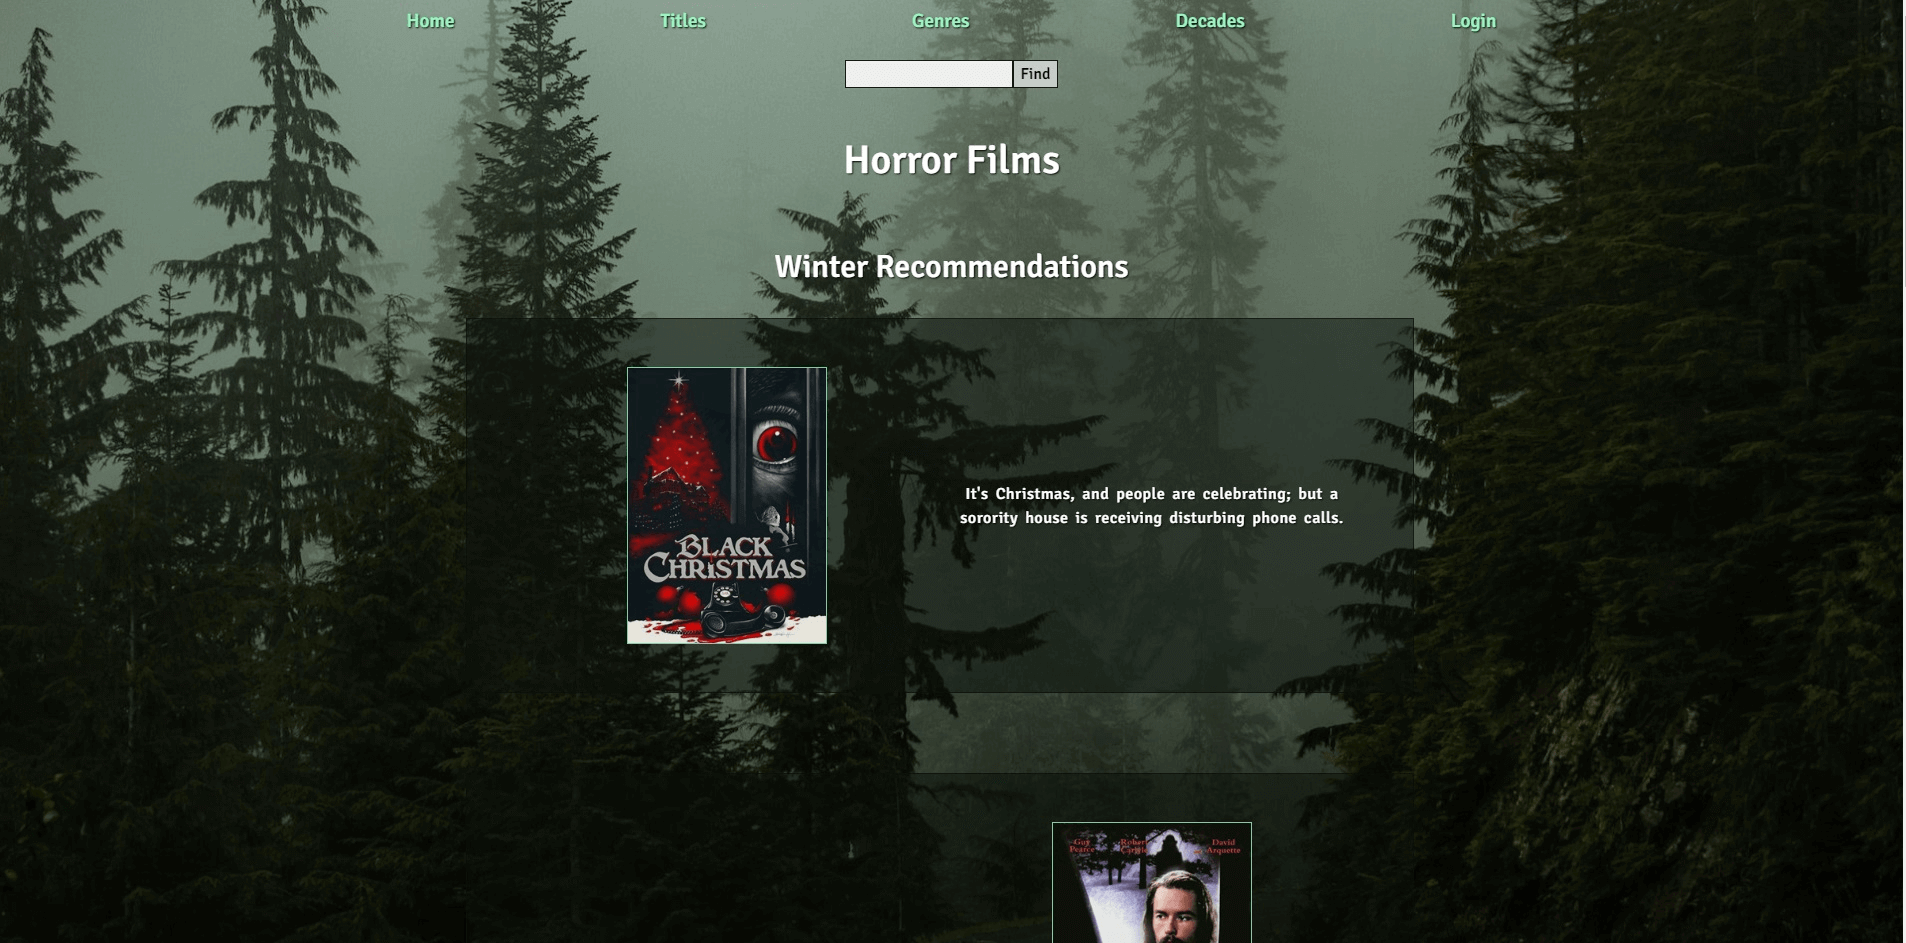
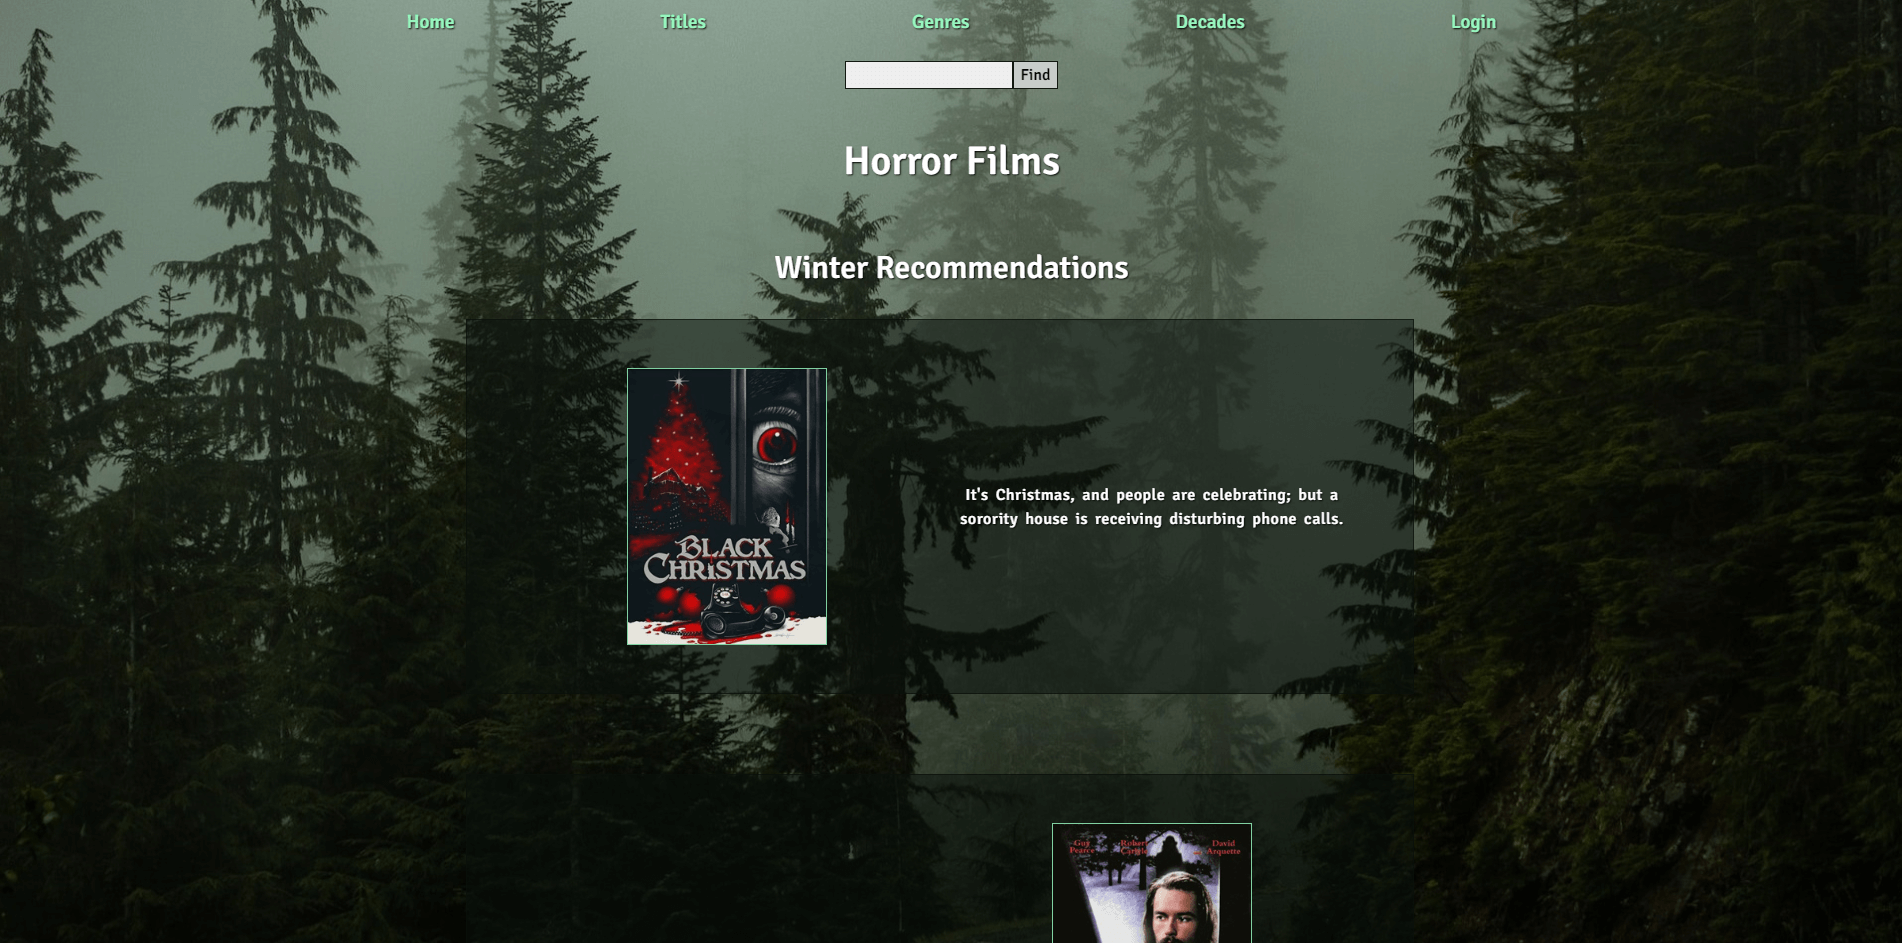
border

diff --git a/src/components/Project.js b/src/components/Project.js
@@ -49,9 +49,15 @@ export default function Project() {
 
             function pic_counter() {
                 if (project.id !== 6 && project.id !== 10 && project.id !== 12 && project.id !== 13) {
-                    return (
-                        <img className='project_img project_img_small pt-1' src={'../../img/p' + (project.id) + '_4.png'} />
-                    );
+                    if (window.innerWidth < 768) {
+                        return (
+                            <img className='project_img project_img_small mt-1 project_pic_border' src={'../../img/p' + (project.id) + '_4.png'} />
+                        );
+                    } else {
+                        return (
+                            <img className='project_img project_img_small mt-1 project_pic_border' src={'../../img/p' + (project.id) + '_4.png'} />
+                        );
+                    }
                 } else {
                     return null;
                 }
@@ -92,8 +98,8 @@ export default function Project() {
                                     </div>
                                 </div>
                                 <div className='project-img-box'>
-                                    <img className='project_img project_img_small pt-1' src={'../../img/p' + (project.id) + '_2.png'} />
-                                    <img className='project_img project_img_small pt-1' src={'../../img/p' + (project.id) + '_3.png'} />
+                                    <img className='project_img project_img_small mt-1 project_pic_border' src={'../../img/p' + (project.id) + '_2.png'} />
+                                    <img className='project_img project_img_small mt-1 project_pic_border' src={'../../img/p' + (project.id) + '_3.png'} />
                                     {pic_counter()}
                                 </div>
                             </article>
@@ -136,8 +142,8 @@ export default function Project() {
                                     </div>
                                 </div>
                                 <div className='project-img-box box'>
-                                    <img className='project_img project_img_small py-1' src={'../../img/p' + (project.id) + '_2.png'} />
-                                    <img className='project_img project_img_small py-1' src={'../../img/p' + (project.id) + '_3.png'} />
+                                    <img className='project_img project_img_small my-1 project_pic_border' src={'../../img/p' + (project.id) + '_2.png'} />
+                                    <img className='project_img project_img_small my-1 project_pic_border' src={'../../img/p' + (project.id) + '_3.png'} />
                                     {pic_counter()}
                                 </div>
                                 <nav className='nav'>
@@ -202,8 +208,8 @@ export default function Project() {
                                     </div>
                                 </div>
                                 <div className='project-img-box box fly_up'>
-                                    <img className='project_img project_img_small py-1' src={'../../img/p' + (project.id) + '_2.png'} />
-                                    <img className='project_img project_img_small py-1' src={'../../img/p' + (project.id) + '_3.png'} />
+                                    <img className='project_img project_img_small my-1 project_pic_border' src={'../../img/p' + (project.id) + '_2.png'} />
+                                    <img className='project_img project_img_small my-1 project_pic_border' src={'../../img/p' + (project.id) + '_3.png'} />
                                     {pic_counter()}
                                 </div>
                                 <nav className='nav'>

diff --git a/src/App.css b/src/App.css
@@ -156,19 +156,6 @@ p {
   text-decoration: none;
 }
 
-.btn-link-2 {
-  display: block;
-  text-align: center;
-  color: #fefefe;
-  width: 100%;
-  max-width: 300px;
-  max-height: 35px;
-  margin: auto 0 5px 0;
-  padding: 0.45em 1em;
-  background-color: #333;
-  border: 1px solid transparent;
-}
-
 .btn-link-3 {
   text-align: center;
   color: #fefefe;
@@ -276,6 +263,16 @@ p {
   -webkit-filter: grayscale(100%);
   /* Safari 6.0 - 9.0 */
   filter: grayscale(100%);
+}
+
+.project_pic_border {
+  border: 2px solid rgb(0, 0, 0);
+}
+
+.thumbnail_loading_div {
+  min-height: 2em;
+  background-color: black;
+  padding: 1em;
 }
 
 .grayscale:hover {
